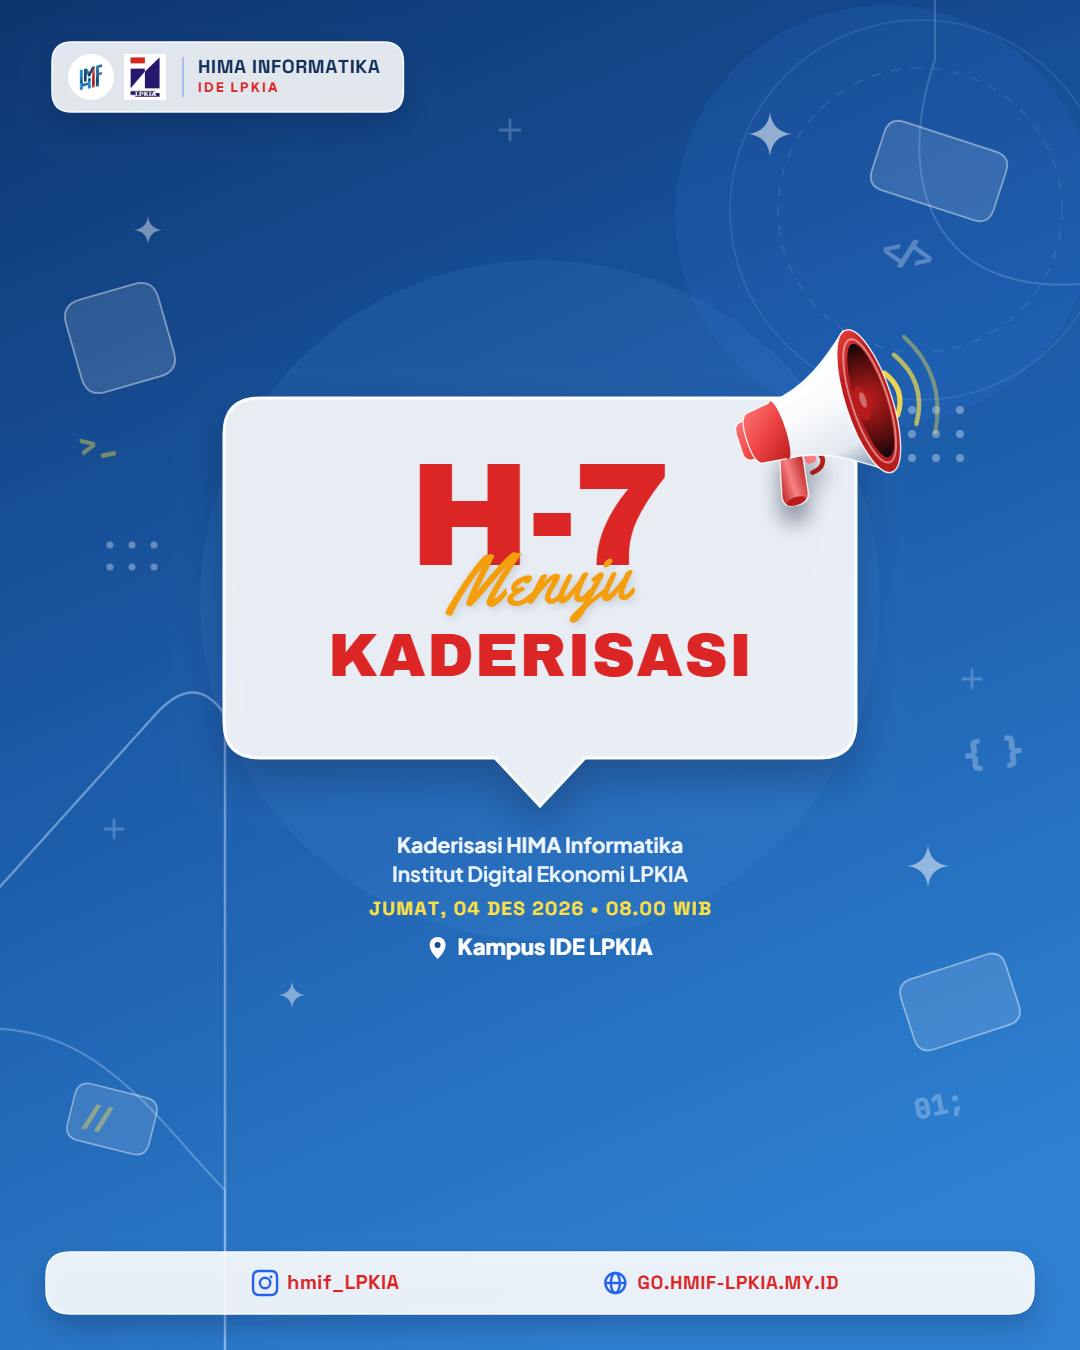
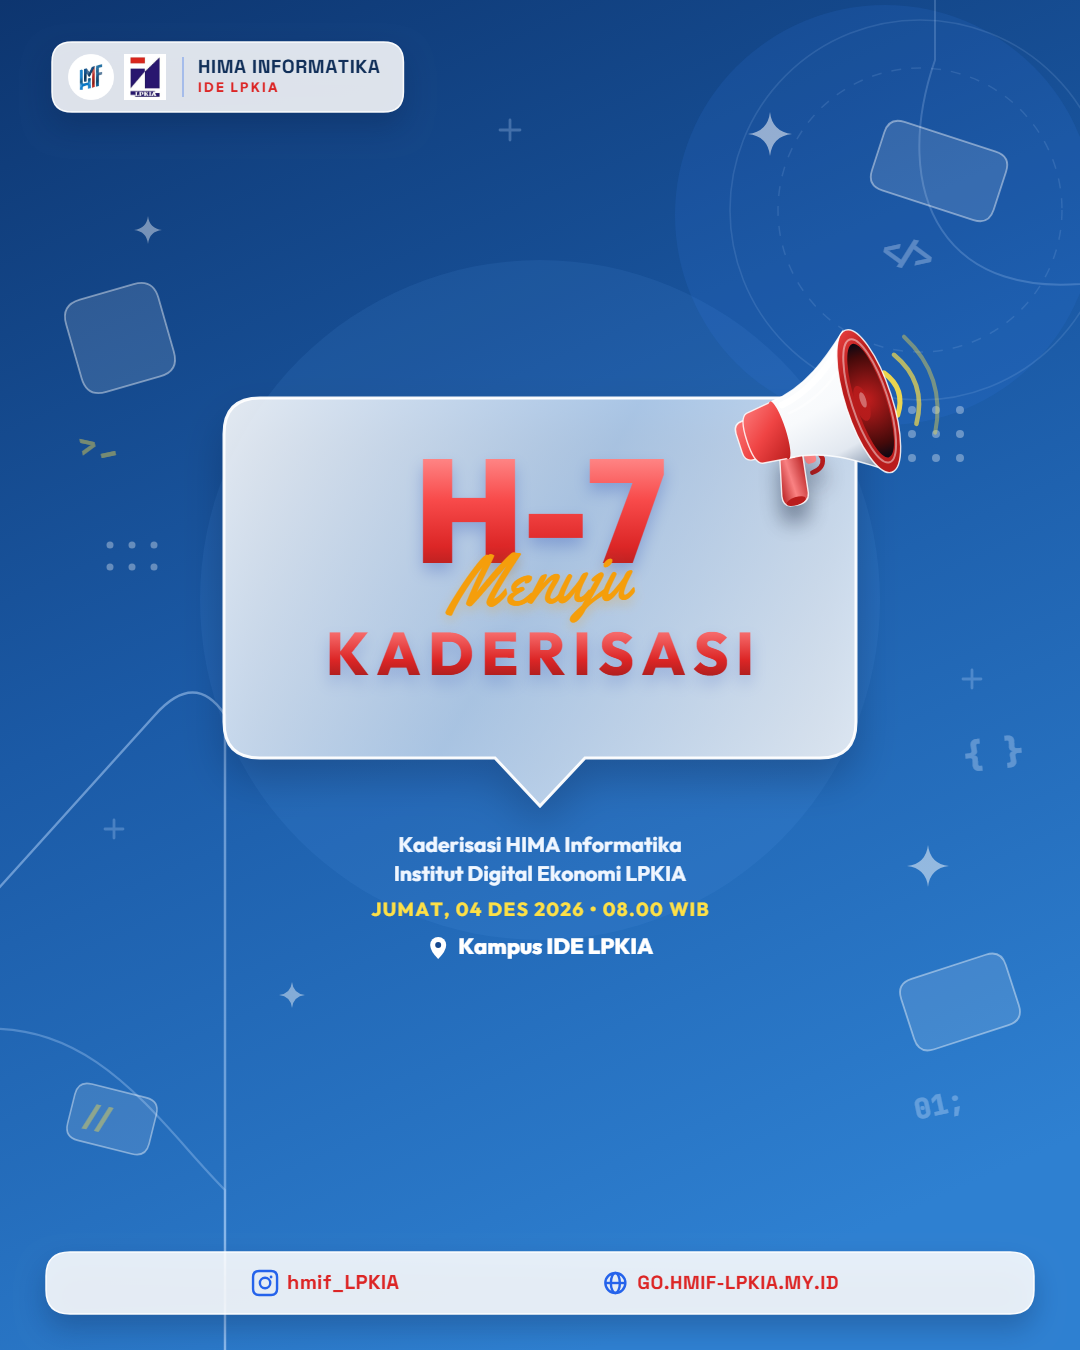
style: differentiate Neubrutalism vs Glassmorphism typography & frosted bubble in Layout 3

Changed region(s): [[0.1833, 0.28, 0.7944, 0.5911], [0.3361, 0.6222, 0.6722, 0.7156]]

diff --git a/index.html b/index.html
@@ -7,7 +7,7 @@
 
     <link rel="preconnect" href="https://fonts.googleapis.com">
     <link rel="preconnect" href="https://fonts.gstatic.com" crossorigin>
-    <link href="https://fonts.googleapis.com/css2?family=Archivo+Black&family=JetBrains+Mono:wght@700;800&family=Plus+Jakarta+Sans:wght@500;600;700;800&family=Silkscreen:wght@700&family=Space+Grotesk:wght@700&family=Yellowtail&display=swap" rel="stylesheet">
+    <link href="https://fonts.googleapis.com/css2?family=Archivo+Black&family=JetBrains+Mono:wght@700;800&family=Outfit:wght@700;800;900&family=Plus+Jakarta+Sans:wght@500;600;700;800&family=Silkscreen:wght@700&family=Space+Grotesk:wght@700&family=Yellowtail&display=swap" rel="stylesheet">
     <script src="https://cdn.tailwindcss.com"></script>
 
     <style>
@@ -326,16 +326,35 @@
         .layout-3.style-neubrutalism .l3-org-div { background: #000000; opacity: 0.85; }
         .layout-3.style-neubrutalism .l3-bubble-path { fill: #FFFFFF; stroke: #000000; stroke-width: 7; }
         .layout-3.style-neubrutalism .l3-bubble-shape { filter: drop-shadow(10px 10px 0 #000000); }
-        .layout-3.style-neubrutalism .l3-hero-txt,
-        .layout-3.style-neubrutalism .l3-title-txt { color: #CA2C2A; }
-        .layout-3.style-neubrutalism .l3-script-txt { color: #F59E0B; text-shadow: 2px 2px 0 rgba(18, 48, 90, 0.24); }
+        .layout-3.style-neubrutalism .l3-hero-txt {
+            font-family: 'Archivo Black', 'Space Grotesk', sans-serif;
+            font-weight: 400;
+            color: #CA2C2A;
+            paint-order: stroke fill;
+            -webkit-text-stroke: 9px #000000;
+            text-shadow: 7px 7px 0 #000000;
+        }
+        .layout-3.style-neubrutalism .l3-title-txt {
+            font-family: 'Archivo Black', 'Space Grotesk', sans-serif;
+            font-weight: 400;
+            color: #CA2C2A;
+            paint-order: stroke fill;
+            -webkit-text-stroke: 5px #000000;
+            text-shadow: 4px 4px 0 #000000;
+        }
+        .layout-3.style-neubrutalism .l3-script-txt {
+            color: #FCD34D;
+            paint-order: stroke fill;
+            -webkit-text-stroke: 4px #000000;
+            text-shadow: 3px 3px 0 #000000;
+        }
         .layout-3.style-neubrutalism .l3-cap-main { color: #FFFFFF; }
         .layout-3.style-neubrutalism .l3-cap-date { color: #FCD34D; }
         .layout-3.style-neubrutalism .l3-cap-loc { color: #FFFFFF; }
         .layout-3.style-neubrutalism .l3-bottom-dock { background: #FFFFFF; color: #CA2C2A; border: 3.5px solid #000000; box-shadow: 7px 7px 0 #000000; border-radius: 16px; }
         .layout-3.style-neubrutalism .l3-dock-icon { color: #16488E; }
 
-        /* Layout 3 Theme 2: Glassmorphism (Sky-Blue Frosted + Aksen Merah) */
+        /* Layout 3 Theme 2: Glassmorphism (Sky-Blue Frosted + Font Outfit Glossy) */
         .poster-canvas.layout-3.style-glass {
             background: linear-gradient(150deg, #0D356F 0%, #1B5AA6 48%, #2E80D1 100%);
             --l3-mega-hi: #FF8585;
@@ -352,19 +371,39 @@
         .layout-3.style-glass .l3-bg-dot { fill: rgba(255, 255, 255, 0.34); }
         .layout-3.style-glass .l3-bg-code { color: rgba(219, 234, 254, 0.32); }
         .layout-3.style-glass .l3-bg-code-alt { color: rgba(253, 224, 71, 0.42); }
-        .layout-3.style-glass .l3-org-pill { background: rgba(255, 255, 255, 0.88); border: 1.5px solid rgba(255,255,255,0.95); box-shadow: 0 12px 28px rgba(10, 30, 68, 0.28); border-radius: 20px; }
-        .layout-3.style-glass .l3-org-title { color: #12305A; }
-        .layout-3.style-glass .l3-org-sub { color: #DC2626; }
+        .layout-3.style-glass .l3-org-pill { background: rgba(255, 255, 255, 0.86); border: 1.5px solid rgba(255,255,255,0.95); box-shadow: 0 12px 28px rgba(10, 30, 68, 0.28); border-radius: 20px; }
+        .layout-3.style-glass .l3-org-title { color: #12305A; font-family: 'Outfit', sans-serif; font-weight: 800; }
+        .layout-3.style-glass .l3-org-sub { color: #DC2626; font-family: 'Outfit', sans-serif; font-weight: 700; }
         .layout-3.style-glass .l3-org-div { background: #2563EB; opacity: 0.3; }
-        .layout-3.style-glass .l3-bubble-path { fill: rgba(255, 255, 255, 0.90); stroke: rgba(255, 255, 255, 0.98); stroke-width: 3; }
+        .layout-3.style-glass .l3-bubble-path { fill: url(#l3GlassBubFill); stroke: rgba(255, 255, 255, 0.96); stroke-width: 3; }
         .layout-3.style-glass .l3-bubble-shape { filter: drop-shadow(0 24px 40px rgba(8, 25, 58, 0.36)); }
-        .layout-3.style-glass .l3-hero-txt,
-        .layout-3.style-glass .l3-title-txt { color: #DC2626; }
-        .layout-3.style-glass .l3-script-txt { color: #F59E0B; text-shadow: 0 4px 10px rgba(15, 23, 42, 0.16); }
-        .layout-3.style-glass .l3-cap-main { color: #EFF6FF; }
-        .layout-3.style-glass .l3-cap-date { color: #FDE047; }
-        .layout-3.style-glass .l3-cap-loc { color: #FFFFFF; }
-        .layout-3.style-glass .l3-bottom-dock { background: rgba(255, 255, 255, 0.90); color: #DC2626; border: 1.5px solid rgba(255,255,255,0.95); box-shadow: 0 16px 36px rgba(8, 25, 58, 0.32); border-radius: 24px; }
+        .layout-3.style-glass .l3-hero-txt {
+            font-family: 'Outfit', 'Plus Jakarta Sans', sans-serif;
+            font-weight: 900;
+            letter-spacing: -0.01em;
+            background: linear-gradient(180deg, #FF8A8A 0%, #F84B4B 34%, #DC2626 70%, #991B1B 100%);
+            -webkit-background-clip: text;
+            background-clip: text;
+            -webkit-text-fill-color: transparent;
+            color: transparent;
+            filter: drop-shadow(0 8px 16px rgba(30, 64, 175, 0.28));
+        }
+        .layout-3.style-glass .l3-title-txt {
+            font-family: 'Outfit', 'Plus Jakarta Sans', sans-serif;
+            font-weight: 800;
+            letter-spacing: 0.12em !important;
+            background: linear-gradient(180deg, #F87171 0%, #DC2626 55%, #991B1B 100%);
+            -webkit-background-clip: text;
+            background-clip: text;
+            -webkit-text-fill-color: transparent;
+            color: transparent;
+            filter: drop-shadow(0 5px 12px rgba(30, 64, 175, 0.22));
+        }
+        .layout-3.style-glass .l3-script-txt { color: #F59E0B; text-shadow: 0 5px 12px rgba(245, 158, 11, 0.28); }
+        .layout-3.style-glass .l3-cap-main { color: #EFF6FF; font-family: 'Outfit', 'Plus Jakarta Sans', sans-serif; }
+        .layout-3.style-glass .l3-cap-date { color: #FDE047; font-family: 'Outfit', sans-serif; }
+        .layout-3.style-glass .l3-cap-loc { color: #FFFFFF; font-family: 'Outfit', sans-serif; }
+        .layout-3.style-glass .l3-bottom-dock { background: rgba(255, 255, 255, 0.88); color: #DC2626; border: 1.5px solid rgba(255,255,255,0.95); box-shadow: 0 16px 36px rgba(8, 25, 58, 0.32); border-radius: 24px; }
         .layout-3.style-glass .l3-dock-icon { color: #2563EB; }
 
         /* Layout 3 Theme 3: Dark Code (Deep Navy + Cyan) */
@@ -1392,6 +1431,13 @@
                             <div class="l3-bubble-wrap flex items-center justify-center">
                                 <!-- Unified Speech Bubble Shape with Pointer Tail -->
                                 <svg viewBox="0 0 640 430" preserveAspectRatio="none" class="l3-bubble-shape absolute inset-0 w-full h-full overflow-visible" aria-hidden="true">
+                                    <defs>
+                                        <linearGradient id="l3GlassBubFill" x1="0%" y1="0%" x2="100%" y2="100%">
+                                            <stop offset="0%" stop-color="rgba(255, 255, 255, 0.88)"/>
+                                            <stop offset="50%" stop-color="rgba(222, 238, 255, 0.72)"/>
+                                            <stop offset="100%" stop-color="rgba(255, 255, 255, 0.84)"/>
+                                        </linearGradient>
+                                    </defs>
                                     <path class="l3-bubble-path" d="M 52 14 L 588 14 A 38 38 0 0 1 626 52 L 626 334 A 38 38 0 0 1 588 372 L 366 372 L 320 422 L 274 372 L 52 372 A 38 38 0 0 1 14 334 L 14 52 A 38 38 0 0 1 52 14 Z"/>
                                 </svg>
 
@@ -3318,7 +3364,12 @@
                     pillFill: '#FFFFFF', pillBorder: 3.5, pillBorderCol: '#000000', pillShadow: 6, pillRad: 14,
                     orgTitle: '#12305A', orgSub: '#CA2C2A', orgDiv: 'rgba(0,0,0,0.85)',
                     bubFill: '#FFFFFF', bubBorder: 7, bubBorderCol: '#000000', bubShadow: 10, bubSoft: null,
-                    heroCol: '#CA2C2A', titleCol: '#CA2C2A', scriptCol: '#F59E0B', scriptShd: 'rgba(18, 48, 90, 0.24)',
+                    heroFont: '"Archivo Black", "Space Grotesk", sans-serif', heroWeight: 400, heroCol: '#CA2C2A',
+                    heroStroke: '#000000', heroSW: 9, heroShdOff: 7, heroTrack: -0.02,
+                    titleFont: '"Archivo Black", "Space Grotesk", sans-serif', titleWeight: 400, titleCol: '#CA2C2A',
+                    titleStroke: '#000000', titleSW: 5, titleShdOff: 4, titleTrack: 0.02,
+                    scriptCol: '#FCD34D', scriptStroke: '#000000', scriptSW: 4, scriptShdOff: 3, scriptShd: 'rgba(0, 0, 0, 1)',
+                    capFont: '"Plus Jakarta Sans", sans-serif', dateFont: '"Space Grotesk", sans-serif',
                     capCol: '#FFFFFF', dateCol: '#FCD34D', locCol: '#FFFFFF',
                     dockFill: '#FFFFFF', dockText: '#CA2C2A', dockIcon: '#16488E', dockBorder: 3.5, dockBorderCol: '#000000', dockShadow: 7, dockRad: 16,
                     mega: { hi: '#FF6B6B', mid: '#CA2C2A', dark: '#991B1B', deep: '#3B0909', edge: '#111827', ew: 2.4, wave: '#FCD34D' }
@@ -3329,12 +3380,17 @@
                     tileFill: 'rgba(255, 255, 255, 0.12)', tileStroke: 'rgba(255, 255, 255, 0.42)',
                     sparkCol: 'rgba(255, 255, 255, 0.65)', dotCol: 'rgba(255, 255, 255, 0.34)',
                     codeCol: 'rgba(219, 234, 254, 0.32)', codeAlt: 'rgba(253, 224, 71, 0.42)',
-                    pillFill: 'rgba(255, 255, 255, 0.88)', pillBorder: 1.5, pillBorderCol: 'rgba(255,255,255,0.95)', pillShadow: 0, pillRad: 20, soft: 'rgba(10, 30, 68, 0.30)',
+                    pillFill: 'rgba(255, 255, 255, 0.86)', pillBorder: 1.5, pillBorderCol: 'rgba(255,255,255,0.95)', pillShadow: 0, pillRad: 20, soft: 'rgba(10, 30, 68, 0.30)',
                     orgTitle: '#12305A', orgSub: '#DC2626', orgDiv: 'rgba(37, 99, 235, 0.30)',
-                    bubFill: 'rgba(255, 255, 255, 0.90)', bubBorder: 3, bubBorderCol: 'rgba(255,255,255,0.98)', bubShadow: 0, bubSoft: 'rgba(8, 25, 58, 0.36)',
-                    heroCol: '#DC2626', titleCol: '#DC2626', scriptCol: '#F59E0B', scriptShd: 'rgba(15, 23, 42, 0.16)',
+                    bubFill: 'glassBubGrad', bubBorder: 3, bubBorderCol: 'rgba(255,255,255,0.96)', bubShadow: 0, bubSoft: 'rgba(8, 25, 58, 0.36)',
+                    heroFont: '"Outfit", "Plus Jakarta Sans", sans-serif', heroWeight: 900, heroCol: 'glassHeroGrad',
+                    heroStroke: null, heroSW: 0, heroShdOff: 0, heroGlow: 'rgba(30, 64, 175, 0.28)', heroTrack: -0.01,
+                    titleFont: '"Outfit", "Plus Jakarta Sans", sans-serif', titleWeight: 800, titleCol: 'glassTitleGrad',
+                    titleStroke: null, titleSW: 0, titleShdOff: 0, titleGlow: 'rgba(30, 64, 175, 0.22)', titleTrack: 0.12,
+                    scriptCol: '#F59E0B', scriptStroke: null, scriptSW: 0, scriptShdOff: 0, scriptShd: 'rgba(245, 158, 11, 0.28)',
+                    capFont: '"Outfit", "Plus Jakarta Sans", sans-serif', dateFont: '"Outfit", sans-serif',
                     capCol: '#EFF6FF', dateCol: '#FDE047', locCol: '#FFFFFF',
-                    dockFill: 'rgba(255, 255, 255, 0.90)', dockText: '#DC2626', dockIcon: '#2563EB', dockBorder: 1.5, dockBorderCol: 'rgba(255,255,255,0.95)', dockShadow: 0, dockRad: 24,
+                    dockFill: 'rgba(255, 255, 255, 0.88)', dockText: '#DC2626', dockIcon: '#2563EB', dockBorder: 1.5, dockBorderCol: 'rgba(255,255,255,0.95)', dockShadow: 0, dockRad: 24,
                     mega: { hi: '#FF8585', mid: '#EF4444', dark: '#B91C1C', deep: '#450A0A', edge: 'rgba(255,255,255,0.85)', ew: 1.4, wave: '#FDE047' }
                 },
                 'dark-code': {
@@ -3346,7 +3402,12 @@
                     pillFill: '#122645', pillBorder: 2.5, pillBorderCol: '#38BDF8', pillShadow: 5, pillRad: 14,
                     orgTitle: '#FFFFFF', orgSub: '#38BDF8', orgDiv: 'rgba(56, 189, 248, 0.60)',
                     bubFill: '#122645', bubBorder: 6, bubBorderCol: '#38BDF8', bubShadow: 10, bubSoft: null,
-                    heroCol: '#38BDF8', titleCol: '#FFFFFF', scriptCol: '#FCD34D', scriptShd: 'rgba(0, 0, 0, 0.45)',
+                    heroFont: '"Archivo Black", "Space Grotesk", sans-serif', heroWeight: 400, heroCol: '#38BDF8',
+                    heroStroke: null, heroSW: 0, heroShdOff: 0, heroTrack: -0.02,
+                    titleFont: '"Archivo Black", "Space Grotesk", sans-serif', titleWeight: 400, titleCol: '#FFFFFF',
+                    titleStroke: null, titleSW: 0, titleShdOff: 0, titleTrack: 0.02,
+                    scriptCol: '#FCD34D', scriptStroke: null, scriptSW: 0, scriptShdOff: 0, scriptShd: 'rgba(0, 0, 0, 0.45)',
+                    capFont: '"Plus Jakarta Sans", sans-serif', dateFont: '"Space Grotesk", sans-serif',
                     capCol: '#E2E8F0', dateCol: '#38BDF8', locCol: '#FFFFFF',
                     dockFill: '#122645', dockText: '#FFFFFF', dockIcon: '#38BDF8', dockBorder: 2.5, dockBorderCol: '#38BDF8', dockShadow: 6, dockRad: 16,
                     mega: { hi: '#7DD3FC', mid: '#0EA5E9', dark: '#0369A1', deep: '#061326', edge: '#38BDF8', ew: 2, wave: '#38BDF8' }
@@ -3360,7 +3421,12 @@
                     pillFill: 'rgba(255, 255, 255, 0.96)', pillBorder: 0, pillBorderCol: 'transparent', pillShadow: 0, pillRad: 18, soft: 'rgba(6, 20, 44, 0.36)',
                     orgTitle: '#12305A', orgSub: '#2A82C6', orgDiv: '#CBD5E1',
                     bubFill: '#FFFFFF', bubBorder: 0, bubBorderCol: 'transparent', bubShadow: 0, bubSoft: 'rgba(6, 20, 44, 0.44)',
-                    heroCol: '#16488E', titleCol: '#16488E', scriptCol: '#F59E0B', scriptShd: 'rgba(18, 48, 90, 0.14)',
+                    heroFont: '"Archivo Black", "Space Grotesk", sans-serif', heroWeight: 400, heroCol: '#16488E',
+                    heroStroke: null, heroSW: 0, heroShdOff: 0, heroTrack: -0.02,
+                    titleFont: '"Archivo Black", "Space Grotesk", sans-serif', titleWeight: 400, titleCol: '#16488E',
+                    titleStroke: null, titleSW: 0, titleShdOff: 0, titleTrack: 0.02,
+                    scriptCol: '#F59E0B', scriptStroke: null, scriptSW: 0, scriptShdOff: 0, scriptShd: 'rgba(18, 48, 90, 0.14)',
+                    capFont: '"Plus Jakarta Sans", sans-serif', dateFont: '"Space Grotesk", sans-serif',
                     capCol: '#E2EEFF', dateCol: '#FDD34D', locCol: '#FFFFFF',
                     dockFill: '#FFFFFF', dockText: '#16488E', dockIcon: '#2A82C6', dockBorder: 0, dockBorderCol: 'transparent', dockShadow: 0, dockRad: 26,
                     mega: { hi: '#60A5FA', mid: '#2563EB', dark: '#1E3A8A', deep: '#091834', edge: 'rgba(255,255,255,0.72)', ew: 1.2, wave: '#FDD34D' }
@@ -3641,7 +3707,15 @@
                 ctx.shadowBlur = 42;
                 ctx.shadowOffsetY = 20;
             }
-            ctx.fillStyle = L.bubFill;
+            if (L.bubFill === 'glassBubGrad') {
+                const bg = ctx.createLinearGradient(bubX, bubY, bubX + bDim.w, bubY + bDim.bodyH);
+                bg.addColorStop(0, 'rgba(255, 255, 255, 0.88)');
+                bg.addColorStop(0.5, 'rgba(222, 238, 255, 0.72)');
+                bg.addColorStop(1, 'rgba(255, 255, 255, 0.84)');
+                ctx.fillStyle = bg;
+            } else {
+                ctx.fillStyle = L.bubFill;
+            }
             bubblePath(bubX, bubY, bDim.w, bDim.bodyH, bDim.rad, bDim.tailW, bDim.tailH);
             ctx.fill();
             ctx.restore();
@@ -3652,7 +3726,7 @@
                 ctx.stroke();
             }
 
-            // Stacked 3-Layer Hero Text Inside Bubble
+            // Stacked 3-Layer Hero Text Inside Bubble (Theme-Distinct Typography)
             const heroStr = E.isCS ? 'COMING SOON' : E.hero;
             const scriptStr = E.isCS ? 'Stay Tuned' : toTitleCase(E.mn || 'Menuju');
             const m = getL3BubbleMetrics(heroStr, E.title);
@@ -3660,8 +3734,89 @@
             const titleCenterY = bubY + bDim.bodyH * 0.72;
             const scriptCenterY = bubY + bDim.bodyH * 0.51;
 
-            drawTextTrack(heroStr, W / 2, heroCenterY, `400 ${m.heroFs}px "Archivo Black", "Space Grotesk", sans-serif`, L.heroCol, -0.02 * m.heroFs, 'center');
-            drawTextTrack(E.title, W / 2, titleCenterY, `400 ${m.titleFs}px "Archivo Black", "Space Grotesk", sans-serif`, L.titleCol, 0.02 * m.titleFs, 'center');
+            const drawBubbleWord = (txt, cy, fontSpec, colorSpec, strokeCol, strokeW, shdOff, tracking, glowCol = null, fsPx = 100) => {
+                ctx.save();
+                ctx.font = fontSpec;
+                ctx.textBaseline = 'middle';
+                ctx.lineJoin = 'round';
+                ctx.lineCap = 'round';
+                const chars = Array.from(txt);
+                const ws = chars.map((c) => ctx.measureText(c).width);
+                const tot = ws.reduce((a, b) => a + b, 0) + tracking * Math.max(0, chars.length - 1);
+                let cx = W / 2 - tot / 2;
+                ctx.textAlign = 'left';
+
+                const resolveWordFill = (col) => {
+                    if (col === 'glassHeroGrad') {
+                        const g = ctx.createLinearGradient(0, cy - fsPx * 0.45, 0, cy + fsPx * 0.45);
+                        g.addColorStop(0, '#FF8A8A');
+                        g.addColorStop(0.34, '#F84B4B');
+                        g.addColorStop(0.70, '#DC2626');
+                        g.addColorStop(1, '#991B1B');
+                        return g;
+                    }
+                    if (col === 'glassTitleGrad') {
+                        const g = ctx.createLinearGradient(0, cy - fsPx * 0.45, 0, cy + fsPx * 0.45);
+                        g.addColorStop(0, '#F87171');
+                        g.addColorStop(0.55, '#DC2626');
+                        g.addColorStop(1, '#991B1B');
+                        return g;
+                    }
+                    return col;
+                };
+
+                // Hard Neubrutalism offset shadow pass
+                if (shdOff > 0) {
+                    let sx = cx + shdOff;
+                    chars.forEach((c, idx) => {
+                        if (strokeCol && strokeW > 0) {
+                            ctx.lineWidth = strokeW;
+                            ctx.strokeStyle = '#000000';
+                            ctx.strokeText(c, sx, cy + shdOff);
+                        }
+                        ctx.fillStyle = '#000000';
+                        ctx.fillText(c, sx, cy + shdOff);
+                        sx += ws[idx] + tracking;
+                    });
+                }
+
+                if (glowCol) {
+                    ctx.shadowColor = glowCol;
+                    ctx.shadowBlur = 16;
+                    ctx.shadowOffsetY = 8;
+                }
+
+                // Stroke pass before fill (= paint-order: stroke fill)
+                if (strokeCol && strokeW > 0) {
+                    let tx = cx;
+                    ctx.lineWidth = strokeW;
+                    ctx.strokeStyle = strokeCol;
+                    chars.forEach((c, idx) => {
+                        ctx.strokeText(c, tx, cy);
+                        tx += ws[idx] + tracking;
+                    });
+                }
+
+                ctx.fillStyle = resolveWordFill(colorSpec);
+                chars.forEach((c, idx) => {
+                    ctx.fillText(c, cx, cy);
+                    cx += ws[idx] + tracking;
+                });
+                ctx.restore();
+            };
+
+            drawBubbleWord(
+                heroStr, heroCenterY,
+                `${L.heroWeight} ${m.heroFs}px ${L.heroFont}`,
+                L.heroCol, L.heroStroke, L.heroSW, L.heroShdOff,
+                L.heroTrack * m.heroFs, L.heroGlow, m.heroFs
+            );
+            drawBubbleWord(
+                E.title, titleCenterY,
+                `${L.titleWeight} ${m.titleFs}px ${L.titleFont}`,
+                L.titleCol, L.titleStroke, L.titleSW, L.titleShdOff,
+                L.titleTrack * m.titleFs, L.titleGlow, m.titleFs
+            );
 
             ctx.save();
             ctx.translate(W / 2, scriptCenterY);
@@ -3669,10 +3824,27 @@
             ctx.font = `400 ${m.scriptFs}px "Yellowtail", cursive`;
             ctx.textAlign = 'center';
             ctx.textBaseline = 'middle';
-            ctx.shadowColor = L.scriptShd;
-            ctx.shadowBlur = 8;
-            ctx.shadowOffsetX = 2;
-            ctx.shadowOffsetY = 3;
+            ctx.lineJoin = 'round';
+            ctx.lineCap = 'round';
+            if (L.scriptShdOff > 0) {
+                if (L.scriptSW > 0) {
+                    ctx.lineWidth = L.scriptSW;
+                    ctx.strokeStyle = '#000000';
+                    ctx.strokeText(scriptStr, L.scriptShdOff, L.scriptShdOff);
+                }
+                ctx.fillStyle = '#000000';
+                ctx.fillText(scriptStr, L.scriptShdOff, L.scriptShdOff);
+            } else {
+                ctx.shadowColor = L.scriptShd;
+                ctx.shadowBlur = 12;
+                ctx.shadowOffsetX = 0;
+                ctx.shadowOffsetY = 5;
+            }
+            if (L.scriptStroke && L.scriptSW > 0) {
+                ctx.lineWidth = L.scriptSW;
+                ctx.strokeStyle = L.scriptStroke;
+                ctx.strokeText(scriptStr, 0, 0);
+            }
             ctx.fillStyle = L.scriptCol;
             ctx.fillText(scriptStr, 0, 0);
             ctx.restore();
@@ -3802,15 +3974,15 @@
             // 6. Centered Org Description + Schedule + Location
             const capY = bubY + bDim.bodyH + bDim.tailH + capGap;
             const titleLine = `${toTitleCase(E.title)} HIMA Informatika`;
-            drawTextTrack(titleLine, W / 2, capY + 12, '700 21px "Plus Jakarta Sans", sans-serif', L.capCol, 0, 'center');
-            drawTextTrack('Institut Digital Ekonomi LPKIA', W / 2, capY + 41, '600 21px "Plus Jakarta Sans", sans-serif', L.capCol, 0, 'center');
+            drawTextTrack(titleLine, W / 2, capY + 12, `700 21px ${L.capFont}`, L.capCol, 0, 'center');
+            drawTextTrack('Institut Digital Ekonomi LPKIA', W / 2, capY + 41, `600 21px ${L.capFont}`, L.capCol, 0, 'center');
 
             if (!E.isCS) {
                 const dtTxt = `${E.date} • ${E.time}`;
-                drawTextTrack(dtTxt, W / 2, capY + 76, '700 19px "Space Grotesk", sans-serif', L.dateCol, 1.4, 'center');
+                drawTextTrack(dtTxt, W / 2, capY + 76, `700 19px ${L.dateFont}`, L.dateCol, 1.4, 'center');
 
                 const locTxt = toTitleCase(E.loc);
-                ctx.font = '800 22px "Plus Jakarta Sans", sans-serif';
+                ctx.font = `800 22px ${L.capFont}`;
                 const locW = ctx.measureText(locTxt).width;
                 const locStartX = W / 2 - (26 + 8 + locW) / 2;
                 const locY = capY + 114;
@@ -3831,7 +4003,7 @@
                 ctx.fill();
                 ctx.restore();
 
-                drawTextTrack(locTxt, locStartX + 32, locY, '800 22px "Plus Jakarta Sans", sans-serif', L.locCol, 0, 'left');
+                drawTextTrack(locTxt, locStartX + 32, locY, `800 22px ${L.capFont}`, L.locCol, 0, 'left');
             }
 
             return canvas;
